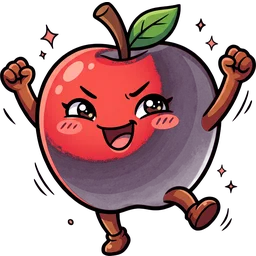
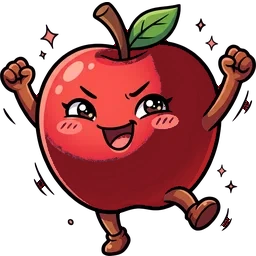
v17.2: 도트 엔진 관중, 마스코트 투명·크기·가림 수정
- 앞줄 관중을 초기 도트 선수 엔진으로 교체 (얼굴·몸·손 흔들기·만세·점프)
- 대구 마스코트 몸통 반투명 수정
- 마스코트 등장 크기 축소, 경기 중 마스코트를 탁구대 먼 쪽으로 옮겨 선수 얼굴 가림 해소
- 훈련 종료 마스코트가 탁구대에 가려지던 문제 수정

Claude-Session: https://claude.ai/code/session_01TcdcGLCBtZwSjznrhxSrAX

diff --git a/index.html b/index.html
@@ -3573,7 +3573,7 @@ function pxRigBake(def,view,size,P0,meta={}){
   const neckTop=pxXf(H.x,H.y,H.s,H.rot)(3,10);H.neckLen=Math.max(2,K.shY+2-neckTop[1]);
   const rsc=(P0.rs||1)*.64;const pd=P0.p||[1,-1];let dx=pd[0],dy=pd[1];if(def.grip==='pen'){const t=dx;dx=dx*.6-dy*.4;dy=dy*.6+t*.4+.35;}
   const back=view==='back';const rk={dir:[dx,dy],s:rsc,fr:.85,black:P0.bf>.5,under:true};
-  const armR=()=>pxArm(P,C,'armR',K.sR,K.eR,K.hRr,{hand:back?'gripB':'grip',racket:rk,racketFn:pxRacketG,dir:nrm(K.eR,K.hRr),k:1,sleeveGrp:'torso'});
+  const armR=()=>pxArm(P,C,'armR',K.sR,K.eR,K.hRr,{hand:def.fan?(P0.lv>.5?'vsign':'fist'):back?'gripB':'grip',racket:def.fan?null:rk,racketFn:pxRacketG,dir:nrm(K.eR,K.hRr),k:1,sleeveGrp:'torso'});
   const armL=()=>pxArm(P,C,'armL',K.sL,K.eL,K.hLl,{hand:P0.lv>.5?'vsign':back?'gripB':'fist',dir:nrm(K.eL,K.hLl),k:1,sleeveGrp:'torso'});
   if(view==='front'){
     pxHairBack(P,C,H,pxXf(H.x,H.y,H.s,H.rot),def.look.hair||'sports',H.sway);
@@ -4098,8 +4098,8 @@ function drawRipples(g,now){for(let i=M.ripples.length-1;i>=0;i--){const r=M.rip
   g.globalAlpha=(1-a)*.85;g.strokeStyle=r.col;g.lineWidth=.5;g.beginPath();g.ellipse(r.x,r.y,(2+a*7)*s,(1+a*3)*s,0,0,Math.PI*2);g.stroke();g.globalAlpha=1;}}
 function drawMascotEvents(g,now){
   for(let i=M.mev.length-1;i>=0;i--){const e=M.mev[i];const a=now-e.t0;if(a>e.dur){M.mev.splice(i,1);continue;}
-    const inT=Math.min(1,a/.28),outT=Math.max(0,(a-(e.dur-.32))/.32);const edge=e.side<0?-28:188,home=e.side<0?26:134;const x=edge+(home-edge)*inT+(edge-home)*outT;
-    const foot=218;drawMascotAt(g,e.k,x,foot,now,true,2);
+    const inT=Math.min(1,a/.28),outT=Math.max(0,(a-(e.dur-.32))/.32);const edge=e.side<0?-28:188,home=e.side<0?20:140;const x=edge+(home-edge)*inT+(edge-home)*outT;
+    const foot=TB.cam?Math.round(O_FOOT+14):218;drawMascotAt(g,e.k,x,foot,now,true,1.6);
     if(inT>=1&&outT<=0){const tw=textW3(e.label)+6;const bx=Math.round(clamp(x-tw/2,2,158-tw)),by=foot-56;g.fillStyle=INK;g.fillRect(bx-1,by-1,tw+2,9);g.fillStyle='#ffffff';g.fillRect(bx,by,tw,7);g.fillRect(Math.round(x)-1,by+7,3,2);drawText3(g,e.label,bx+tw/2,by+1,e.side<0?shade(CITY[e.k].c,.7):'#c4202f',1,'center');}}}
 let CAMX=0;
 function matchDraw(){
@@ -4189,7 +4189,7 @@ function cutFly(){
     drawRigActor(g,M.o,M.oDef,'front','far',O_FOOT);drawRigActor(g,M.p,M.pDef,'back','near',P_FOOT);g.restore();
     if(e>0){g.save();g.globalAlpha=e;drawGrade(g,k,Math.round(WOYT)+(target-cam),CH);g.restore();}
     if(t<1.7){const a=Math.min(1,t/.3);g.globalAlpha=t>1.4?(1.7-t)/.3:1;drawText3(g,'WELCOME TO',80,26,'#ffffff',1,'center');bigText(g,city.en,'#ffd23f',44-Math.round((1-a)*20),16);drawText3(g,ARENA_NAME[k]?'ARENA':'',80,58,'#c9d3f5',1,'center');g.globalAlpha=1;
-      const my=Math.round(130-Math.abs(Math.sin(t*6))*8-(1-a)*40);drawMascotAt(g,k,128,my,t,true,2);}
+      const my=Math.round(130-Math.abs(Math.sin(t*6))*8-(1-a)*40);drawMascotAt(g,k,132,my,t,true,1.6);}
     g.restore();}}];
 }
 function cutIntro(){
@@ -4395,7 +4395,7 @@ function trainUpdate(dt){
     T.lastLand={x:lx,y:ly,t:now};T.fly=null;T.shots++;trainHud();if(T.shots>=T.maxShots){T.state='done';T.until=now+1.2;}else newServeTarget();}
 }
 function trainDraw(){
-  const g=ctx,now=CLOCK;g.save();const wy=Math.round(WOY);if(TB.cam&&CAM_Z<1){camWorld(g,0);camWorldBG(g,T.bg);}else{blitBG(g,T.bg,wy,0);g.translate(0,wy);}if(T.hd)drawAdBoards(g,S.city,sponsorLayout(S.city),now,null);else{drawCrowd(g,S.city,now,0,{spon:sponsorLayout(S.city)});drawLED(g,now,sponsorLayout(S.city),S.city);decoDynamic(g,S.city,now);}if(T.state==='done')drawMascotAt(g,S.city,134,218,now,true,2);
+  const g=ctx,now=CLOCK;g.save();const wy=Math.round(WOY);if(TB.cam&&CAM_Z<1){camWorld(g,0);camWorldBG(g,T.bg);}else{blitBG(g,T.bg,wy,0);g.translate(0,wy);}if(T.hd)drawAdBoards(g,S.city,sponsorLayout(S.city),now,null);else{drawCrowd(g,S.city,now,0,{spon:sponsorLayout(S.city)});drawLED(g,now,sponsorLayout(S.city),S.city);decoDynamic(g,S.city,now);}
   if(T.kind==='multi'){drawRigActor(g,T.coach,T.cDef,'front','far',O_FOOT);if(TB.cam)drawTableOverB(g,S.city,sponsorLayout(S.city));
     for(const x of LANES){ring(g,x,HIT_YP(),6,'rgba(255,210,63,.9)');}
     for(const b of T.balls){const p=clamp((now-b.t0)/b.dur,0,1.1);const pb=.62;const u=.5+(([.2,.5,.8][b.lane])-.5)*p;let v,h;
@@ -4407,6 +4407,7 @@ function trainDraw(){
   if(T.kind==='foot'&&T.target){const x=Math.round(T.target.x),y=P_BASE-22;g.fillStyle=INK;g.fillRect(x,y,1,22);g.fillStyle=Math.floor(now*4)%2?'#ffd23f':'#ff5a6a';g.fillRect(x+1,y,9,6);g.fillStyle='#ffffff';g.fillRect(x-3,y+21,7,2);}
   // 공 가림 투시 창: 공이 날아오는 동안 내 선수 85% + 공 주변 투명
   {const ob=T.hd&&T.state==='go'?trainOccBall(now):null;if(ob){const L=occLayer(g);drawRigActor(L,T.p,T.pDef,'back','near',P_FOOT);occFlush(g,L,ob.v<1.35?ob:null,null);}else drawRigActor(g,T.p,T.pDef,'back','near',P_FOOT);}
+  if(T.state==='done')drawMascotAt(g,S.city,T.p.x<80?136:24,TB.cam?Math.round(P_FOOT-CAMB.hN*.35):218,now,true,1.7);
   if(T.kind==='serve'){if(T.fly){const p=clamp((now-T.fly.t0)/T.fly.dur,0,1);const v=P_V+(T.fly.v1-P_V)*p,u=T.fly.u0+(T.fly.u1-T.fly.u0)*p;drawBall(g,XU(u,v),VY(v),HIT_H*(1-p)+30*p*(1-p),true,{k:'side',s:.8,dir:1},now,false,v);}
     else if(T.state==='go')drawBall(g,T.p.x+(T.pl.hand==='L'?10:-10),TB.cam?VY(P_V):P_FOOT,HIT_H+4+Math.abs(Math.sin(now*4))*6,false,null,now,false,P_V);}
   g.save();g.setTransform(RES,0,0,RES,0,0);drawGrade(g,S.city,wy,CH);g.restore();drawPops(g,T.pops);if(T.state==='ready')bigText(g,'READY');if(T.state==='done')bigText(g,'FINISH!');g.restore();
@@ -5679,27 +5680,27 @@ function camBgRefresh(){if(!TB.cam)return;if(mode==='match'&&M&&M.hd&&M.bg&&(M.b
 const STANDS_B=new Map();
 function drawStandsB(g,k,t,hype,wv){const src=arenaSrcB(k);if(!src)return;const bt=CAMB.barTop;
   g.save();const sw=(t*.16)%1;g.globalCompositeOperation='lighter';const lx=-40+sw*240,ly=bt-26;const lg=g.createRadialGradient(lx,ly,0,lx,ly,34);lg.addColorStop(0,'rgba(255,245,210,'+(.10+(hype-1)*.07).toFixed(3)+')');lg.addColorStop(1,'rgba(255,245,210,0)');g.fillStyle=lg;g.fillRect(lx-34,ly-34,68,60);g.restore();}
-// 앞줄 응원단: 광고판 바로 뒤에 선 역광 실루엣 (팀 컬러 옷) · 하나씩 따로 움직여 그림이 깨지지 않음
-const FANS_B=new Map();
-function fansOfB(k){const key=k+'|'+CAMB.barTop.toFixed(1);let L=FANS_B.get(key);if(L)return L;const R=rng(k.length*131+7);const city=CITY[k]||CITY.seoul;L=[];
-  for(let x=-52;x<214;x+=3.6+R()*2.6){if(R()<.18)continue;const r=R();L.push({x:x+R()*1.2,s:.88+R()*.24,skin:['#f2c9a0','#e0ac80','#c98d62','#9a6440'][Math.floor(R()*4)],ph:R()*6.28,sp:.8+R()*.6,col:r<.6?city.c:r<.85?city.c2:'#e8ecf8',hair:R()<.8?'#15121c':'#3a2a1c',ty:R()<.55?'cheer':R()<.6?'clap':'sway',prop:R()<.18?'towel':R()<.12?'flag':null});}
-  FANS_B.set(key,L);return L;}
-function drawFansB(g,k,t,hype,wv){const src=arenaSrcB(k);if(!src||!(src.mode==='bg'||src.mode==='train'))return;const L=fansOfB(k);const s=CAMB.sc(CAMB.courtBack);const bt=CAMB.barTop;const wx=wv>0?-20+wv/1.8*200:-999;const city=CITY[k]||CITY.seoul;
-  g.save();g.beginPath();g.rect(-80,-A_TOP,320,bt+A_TOP+.2);g.clip();g.lineJoin='round';g.lineCap='round';
-  for(const f of L){const m=s*f.s*.4;const near=Math.abs(f.x-wx)<18;const hot=hype>1.4||near;
-    let raise=0,jump=Math.sin(t*1.8*f.sp+f.ph)*.012*m;const cy=(t*.23*f.sp+f.ph)%6;if(f.ty==='cheer'&&cy<1.1){raise=Math.sin(cy/1.1*Math.PI);jump=-raise*.05*m;}
-    if(hot){raise=1;jump=-Math.abs(Math.sin(t*8*f.sp+f.ph))*.13*m;}else if(f.ty==='clap'&&cy<1.6){raise=.5+.12*Math.sin(t*12+f.ph);}
-    const x=f.x+Math.sin(t*1.3+f.ph)*.03*m,yb=bt+jump;const sh=yb-.28*m,hy=sh-.15*m;
-    // 팔 (어깨에서 위로 V자 · 낮으면 광고판 뒤로 숨음)
-    const ink='#05040f',body=mixc(f.col,'#070816',.14);
-    for(const d of [-1,1]){const ang=(-Math.PI/2)+d*(.42+(1-raise)*2.72)+Math.sin(t*6+f.ph+d)*.12*raise;const L1=.5*m;const ax=x+d*.18*m,ay=sh+.03*m;const ex=ax+Math.cos(ang)*L1,ey=ay+Math.sin(ang)*L1;
-      g.strokeStyle=ink;g.lineWidth=.16*m;g.beginPath();g.moveTo(ax,ay);g.lineTo(ex,ey);g.stroke();g.strokeStyle=f.skin;g.lineWidth=.1*m;g.beginPath();g.moveTo(ax,ay);g.lineTo(ex,ey);g.stroke();
-      if(f.prop&&d===1&&raise>.6){if(f.prop==='towel'){g.fillStyle=f.col;g.strokeStyle=ink;g.lineWidth=.04*m;g.save();g.translate(ex,ey);g.rotate(Math.sin(t*9+f.ph)*.5);g.fillRect(-.22*m,-.06*m,.44*m,.12*m);g.strokeRect(-.22*m,-.06*m,.44*m,.12*m);g.restore();}
-        else{g.strokeStyle=ink;g.lineWidth=.04*m;g.beginPath();g.moveTo(ex,ey);g.lineTo(ex,ey-.5*m);g.stroke();g.fillStyle=city.c2||f.col;g.beginPath();g.moveTo(ex,ey-.5*m);for(let j=0;j<=4;j++){const q=j/4;g.lineTo(ex+q*.42*m,ey-.5*m+Math.sin(t*7+f.ph+q*3)*.04*m);}g.lineTo(ex+.42*m,ey-.24*m);g.lineTo(ex,ey-.26*m);g.closePath();g.fill();g.stroke();}}}
-    // 몸통 · 머리 (역광 실루엣 + 위쪽 테두리 빛)
-    g.fillStyle=body;g.strokeStyle=ink;g.lineWidth=.07*m;g.beginPath();g.moveTo(x-.23*m,yb+.2*m);g.lineTo(x-.22*m,sh+.06*m);g.quadraticCurveTo(x-.2*m,sh-.02*m,x-.1*m,sh-.03*m);g.lineTo(x+.1*m,sh-.03*m);g.quadraticCurveTo(x+.2*m,sh-.02*m,x+.22*m,sh+.06*m);g.lineTo(x+.23*m,yb+.2*m);g.closePath();g.fill();g.stroke();
-    g.fillStyle=f.hair;g.beginPath();g.ellipse(x,hy,.105*m,.12*m,0,0,Math.PI*2);g.fill();g.stroke();
-    g.strokeStyle='rgba(255,236,200,.45)';g.lineWidth=.035*m;g.beginPath();g.ellipse(x,hy,.09*m,.105*m,0,Math.PI*1.12,Math.PI*1.88);g.stroke();}
+// 앞줄 응원단 (v17.2): 초기 도트 선수 엔진으로 만든 관중 · 관절 애니메이션(손 흔들기 · 주먹 · 만세 · 점프) · 광고판 위로 상반신만
+const FANS_B=new Map();const FAN_ANIMS=['idle','wave','fist','vsign','win','hop','roar'];
+function fanDefsB(k){const key='defs|'+k;let D=FANS_B.get(key);if(D)return D;const city=CITY[k]||CITY.seoul;D=[];
+  for(let i=0;i<6;i++){const look=randLook();look.body=['std','slim','std','muscle','slim','std'][i];look.hairC=[0,1,5,0,2,1][i];look.gear=i%3===0?'cap':'none';look.acc='none';const uni={c:i%3===2?mixc(city.c,'#ffffff',.55):city.c,c2:city.c2||'#ffffff',pat:i%2?'plain':(city.pat||'plain')};
+    const d={look,uni,hand:i%2?'L':'R',grip:'shake',rubber:'inv',style:'all',who:null,fan:true};d.key='fan|'+k+'|'+i+'|'+JSON.stringify([look,uni]);D.push(d);}
+  // 미리 굽기 (프레임 사이 여유 시간에 조금씩)
+  for(const d of D)pxrWarm(d,'front','far',['idle']);setTimeout(()=>{for(const d of D)pxrWarm(d,'front','far',FAN_ANIMS.slice(1));},400);
+  FANS_B.set(key,D);return D;}
+function fansOfB(k){const key=k+'|'+CAMB.barTop.toFixed(1);let L=FANS_B.get(key);if(L)return L;const R=rng(k.length*131+7);const D=fanDefsB(k);L=[];
+  for(let x=-50;x<212;x+=7+R()*4){if(R()<.15)continue;L.push({x:x+R()*2,s:.92+R()*.16,ph:R()*6.28,sp:.7+R()*.7,d:D[Math.floor(R()*D.length)],ch:{x:0,anim:'idle',at:0},fav:FAN_ANIMS[1+Math.floor(R()*3)],hot:R()<.5?'win':R()<.5?'hop':'roar',row:R()<.35?1:0});}
+  L.sort((a,b)=>b.row-a.row);FANS_B.set(key,L);return L;}
+function fanFrame(d,anim,t){const i=pxFrameAt(anim,t);const idx=i<0?0:i;let r=pxrGet(d,'front','far',anim,idx);if(r)return r;pxrQueue(d,'front','far',anim,idx);r=pxrGet(d,'front','far','idle',0);if(!r)pxrQueue(d,'front','far','idle',0);return r;}
+function drawFansB(g,k,t,hype,wv){const src=arenaSrcB(k);if(!src||!(src.mode==='bg'||src.mode==='train'))return;if(typeof pxrGet!=='function')return;const L=fansOfB(k);
+  const s=CAMB.sc(CAMB.courtBack);const bt=CAMB.barTop;const wx=wv>0?-20+wv/1.8*200:-999;const natH=PXR_SZ.far.s*94;const city=CITY[k]||CITY.seoul;
+  g.save();g.beginPath();g.rect(-80,-A_TOP,320,bt+A_TOP+.2);g.clip();g.imageSmoothingEnabled=true;g.imageSmoothingQuality='high';
+  for(const f of L){const near=Math.abs(f.x-wx)<18;let anim='idle';const cy=(t*.2*f.sp+f.ph)%5;
+    if(hype>1.4||near)anim=f.hot;else if(cy<1.3)anim=f.fav;
+    if(f.ch.anim!==anim){f.ch.anim=anim;f.ch.at=t;}
+    const r=fanFrame(f.d,anim,Math.max(0,t-f.ch.at));if(!r)continue;
+    const sc=s*1.6*.42*f.s/natH*(f.row?.86:1);const foot=bt+natH*sc*.52-(f.row?natH*sc*.16:0);const w=r.w*sc,h=r.h*sc;
+    g.drawImage(r.img,f.x-w/2,foot-r.fy*sc,w,h);}
   g.restore();
   // 득점 색종이 (홈 관중 쪽 득점 직후 2초)
   if(typeof M!=='undefined'&&M&&M.hypeT&&M.hypeSide==='home'){const t0=M.hypeT-1.2,e=CLOCK-t0;if(e>0&&e<2.4){const cols=[city.c,city.c2||'#ffffff','#ffd23f','#ffffff'];g.save();
@@ -6507,7 +6508,7 @@ function diagHTML(){const L=DIAG.list;return `<div class="diag box flat small"><
 </script>
 
 <script>
-if('serviceWorker' in navigator){window.addEventListener('load',()=>{navigator.serviceWorker.register('sw.js?v=202610252208').catch(()=>{});});}
+if('serviceWorker' in navigator){window.addEventListener('load',()=>{navigator.serviceWorker.register('sw.js?v=202610252224').catch(()=>{});});}
 // 설치형 앱에서 화면 꺼짐 방지(경기 중) · 뒤로가기 실수 방지
 try{if('wakeLock' in navigator)document.addEventListener('pointerdown',function w(){navigator.wakeLock.request('screen').catch(()=>{});document.removeEventListener('pointerdown',w);});}catch(e){}
 </script>

diff --git a/sw.js b/sw.js
@@ -1,5 +1,5 @@
-// 핑마스터 오프라인 캐시 · 버전 202610252208
-const V='pm-202610252208',CORE=["./", "index.html", "manifest.webmanifest", "icons/icon-192.png", "icons/icon-512.png", "img/ui/arena_bg.webp", "img/ui/bg_club.webp", "img/ui/bg_home.webp", "img/ui/bg_league.webp", "img/ui/bg_market.webp", "img/ui/bg_squad.webp", "img/ui/logo.webp", "img/ui/title_bg.webp", "img/ui/trophy.webp", "img/char/baekcut_back.webp", "img/char/baekcut_card.webp", "img/char/baekcut_cutin.webp", "img/char/baekcut_front.webp", "img/char/baekcut_portrait.webp", "img/char/gobaram_back.webp", "img/char/gobaram_card.webp", "img/char/gobaram_cutin.webp", "img/char/gobaram_front.webp", "img/char/gobaram_portrait.webp", "img/char/hangang_back.webp", "img/char/hangang_card.webp", "img/char/hangang_cutin.webp", "img/char/hangang_front.webp", "img/char/hangang_portrait.webp", "img/char/jeongmil_back.webp", "img/char/jeongmil_card.webp", "img/char/jeongmil_cutin.webp", "img/char/jeongmil_front.webp", "img/char/jeongmil_portrait.webp", "img/char/mapado_back.webp", "img/char/mapado_card.webp", "img/char/mapado_cutin.webp", "img/char/mapado_front.webp", "img/char/mapado_portrait.webp", "img/char/neunggeum_back.webp", "img/char/neunggeum_card.webp", "img/char/neunggeum_cutin.webp", "img/char/neunggeum_front.webp", "img/char/neunggeum_portrait.webp", "img/char/padoyeon_back.webp", "img/char/padoyeon_card.webp", "img/char/padoyeon_cutin.webp", "img/char/padoyeon_front.webp", "img/char/padoyeon_portrait.webp", "img/char/yoonbi_back.webp", "img/char/yoonbi_card.webp", "img/char/yoonbi_cutin.webp", "img/char/yoonbi_front.webp", "img/char/yoonbi_portrait.webp"];
+// 핑마스터 오프라인 캐시 · 버전 202610252224
+const V='pm-202610252224',CORE=["./", "index.html", "manifest.webmanifest", "icons/icon-192.png", "icons/icon-512.png", "img/ui/arena_bg.webp", "img/ui/bg_club.webp", "img/ui/bg_home.webp", "img/ui/bg_league.webp", "img/ui/bg_market.webp", "img/ui/bg_squad.webp", "img/ui/logo.webp", "img/ui/title_bg.webp", "img/ui/trophy.webp", "img/char/baekcut_back.webp", "img/char/baekcut_card.webp", "img/char/baekcut_cutin.webp", "img/char/baekcut_front.webp", "img/char/baekcut_portrait.webp", "img/char/gobaram_back.webp", "img/char/gobaram_card.webp", "img/char/gobaram_cutin.webp", "img/char/gobaram_front.webp", "img/char/gobaram_portrait.webp", "img/char/hangang_back.webp", "img/char/hangang_card.webp", "img/char/hangang_cutin.webp", "img/char/hangang_front.webp", "img/char/hangang_portrait.webp", "img/char/jeongmil_back.webp", "img/char/jeongmil_card.webp", "img/char/jeongmil_cutin.webp", "img/char/jeongmil_front.webp", "img/char/jeongmil_portrait.webp", "img/char/mapado_back.webp", "img/char/mapado_card.webp", "img/char/mapado_cutin.webp", "img/char/mapado_front.webp", "img/char/mapado_portrait.webp", "img/char/neunggeum_back.webp", "img/char/neunggeum_card.webp", "img/char/neunggeum_cutin.webp", "img/char/neunggeum_front.webp", "img/char/neunggeum_portrait.webp", "img/char/padoyeon_back.webp", "img/char/padoyeon_card.webp", "img/char/padoyeon_cutin.webp", "img/char/padoyeon_front.webp", "img/char/padoyeon_portrait.webp", "img/char/yoonbi_back.webp", "img/char/yoonbi_card.webp", "img/char/yoonbi_cutin.webp", "img/char/yoonbi_front.webp", "img/char/yoonbi_portrait.webp"];
 self.addEventListener('install',e=>{e.waitUntil(caches.open(V).then(c=>c.addAll(CORE)).then(()=>self.skipWaiting()));});
 self.addEventListener('activate',e=>{e.waitUntil(caches.keys().then(ks=>Promise.all(ks.filter(k=>k!==V).map(k=>caches.delete(k)))).then(()=>self.clients.claim()));});
 self.addEventListener('fetch',e=>{const r=e.request;if(r.method!=='GET')return;const u=new URL(r.url);
